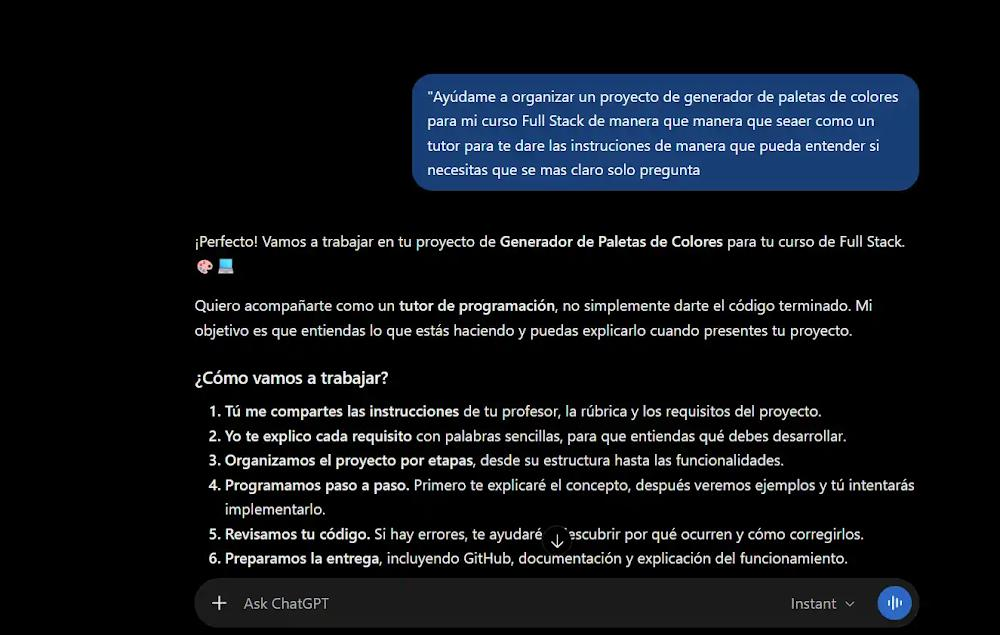
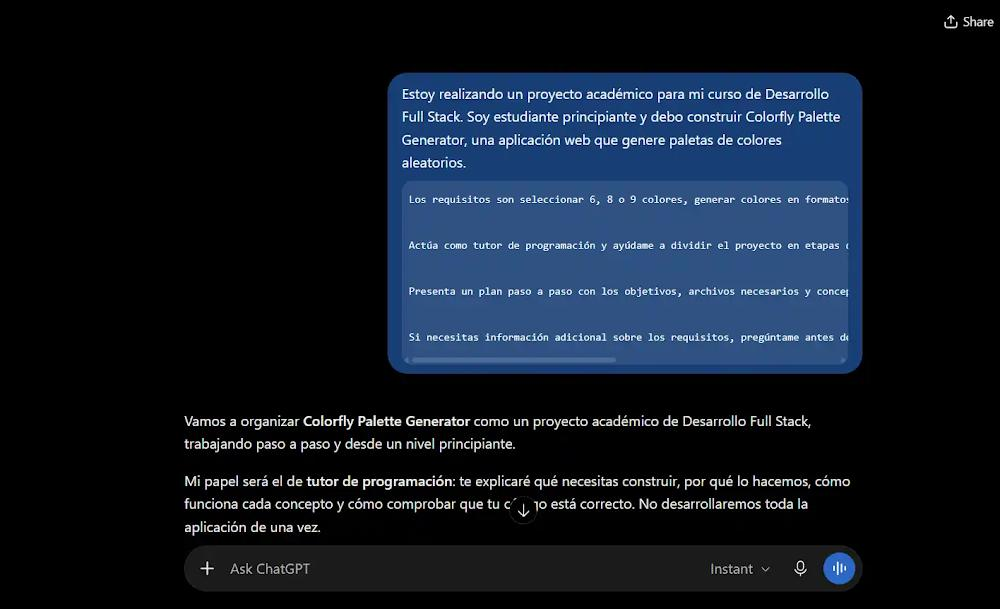
Cargue de evidencias Peromts

Changed region(s): [[0.186, 0.0936, 0.93, 0.9984], [0.93, 0.0312, 0.992, 0.0624]]

diff --git a/prompts/UsoIA.md b/prompts/UsoIA.md
@@ -10,15 +10,41 @@ Utilizar inteligencia artificial como apoyo para aprender JavaScript, organizar 
 
 ## Registro de prompts
 
-| Prompt utilizado                                                                               | Resultado obtenido                                                                               |
-| ---------------------------------------------------------------------------------------------- | ------------------------------------------------------------------------------------------------ |
-| "Ayúdame a organizar un proyecto de generador de paletas de colores para mi curso Full Stack." | Propuesta de estructura, funcionalidades y etapas de desarrollo.                                 |
-| "Revisa que no hayan ambigüedades y que funcione de buena manera."                             | Revisión del CSS e identificación de selectores repetidos.                                       |
-| "Next" (continuación del desarrollo)                                                           | Explicaciones progresivas de generación HEX, HSL, renderizado dinámico, eventos y accesibilidad. |
+| Prompt utilizado | Resultado obtenido                                                                                                                                                                                                   |
+| ---------------- | -------------------------------------------------------------------------------------------------------------------------------------------------------------------------------------------------------------------- |
+| 1.               | Estoy realizando un proyecto académico para mi curso de Desarrollo Full Stack. Soy estudiante principiante y debo construir Colorfly Palette Generator, una aplicación web que genere paletas de colores aleatorios. |
+
+Los requisitos son seleccionar 6, 8 o 9 colores, generar colores en formatos HEX y HSL, mostrar sus códigos HEX y ofrecer feedback visual.
+
+Actúa como tutor de programación y ayúdame a dividir el proyecto en etapas de desarrollo utilizando únicamente HTML5, CSS3 y JavaScript puro.
+
+Presenta un plan paso a paso con los objetivos, archivos necesarios y conceptos que debo aprender en cada etapa. No desarrolles toda la aplicación de una vez.
+
+Si necesitas información adicional sobre los requisitos, pregúntame antes de comenzar. (1.prom)  
+2.|Estoy desarrollando Colorfly Palette Generator con HTML5, CSS3 y JavaScript puro. Ya tengo definida la estructura inicial del proyecto.
+
+    Necesito construir una interfaz que permita seleccionar 6, 8 o 9 colores, elegir entre HEX y HSL, generar una paleta y visualizar los colores.
+
+    Ayúdame a organizar el HTML utilizando etiquetas semánticas y buenas prácticas de accesibilidad.
+
+    No utilices Bootstrap, React ni librerías externas. Mantén el código sencillo y utiliza identificadores claros para conectar los elementos con JavaScript.
+
+    Primero explícame qué etiquetas necesito y por qué. Después muéstrame el código HTML comentado. Finalmente, indícame cómo comprobar que funciona correctamente. (2.prom)
+
+3.| Necesito comprender cómo generar colores aleatorios en formatos HEX y HSL y cómo convertir los colores HSL a HEX para mostrarlos en la interfaz.
+
+Actúa como profesor de JavaScript y explícame el funcionamiento de Math.random(), Math.floor(), toString(16), padStart() y las variables H, S y L.
+
+No utilices librerías externas ni frameworks. Quiero aprender a construir las funciones paso a paso, sin recibir toda la solución de una vez.
+
+Primero explica cada concepto con ejemplos sencillos. Después construye una función y finalmente propón pruebas que pueda realizar en la consola.
+
+Por ejemplo, un color HEX válido debe tener el formato #A34F91 y un HSL puede representarse como hsl(210, 75%, 45%).| Revisión del CSS e identificación de selectores repetidos. |
+3968
 
 ## Evidencias
 
-Agregar capturas de las conversaciones con ChatGPT y de los resultados aplicados al proyecto.
+se almacenaron imagenes en la carpeta de evidencias dentro de promts
 
 ## Reflexión sobre el uso de IA
 

diff --git a/README.md b/README.md
@@ -43,17 +43,18 @@ ProyectoM1_DanyNoriega/
 
 ## Estructura del repositorio
 
-```text
+`
 ProyectoM1_NombreEstudiante/
 ├── Desarrollo/
-│   ├── index.html
-│   ├── style.css
-│   └── script.js
+│ ├── index.html
+│ ├── style.css
+│ └── script.js
 ├── Documentación/
-│   ├── README.md
-│   ├── Uso_IA.md
-│   └── capturas/
+│ ├── README.md
+│ ├── Uso_IA.md
+│ └── capturas/
 └── README.md
+
 ```
 
 ## Cómo ejecutar el proyecto
@@ -90,8 +91,7 @@ La interfaz utiliza CSS Grid para distribuir las tarjetas. Los controles incluye
 
 ## Despliegue en GitHub Pages
 
-1. Sube el proyecto a GitHub con commits descriptivos.
-2. Publica el contenido de `Desarrollo/` en la raíz de una rama `gh-pages` (o configura un flujo de GitHub Actions que publique esa carpeta).
-3. En el repositorio, entra a **Settings → Pages**.
-4. Si utilizas la rama `gh-pages`, selecciona **Deploy from a branch**, rama `gh-pages`, carpeta `/(root)` y guarda.
-5. Abre el enlace publicado y comprueba que funciona.
+1.publicacion del sitio web:
+
+2.funcionamiento del sitio web en formato gif: https://drive.google.com/drive/folders/1HTKlXP7brMDTX6WX85VTMPfrI-8rQvIB?usp=sharing
+```
